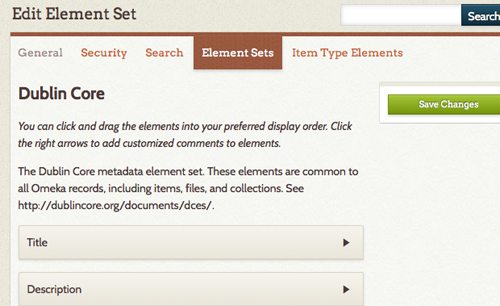
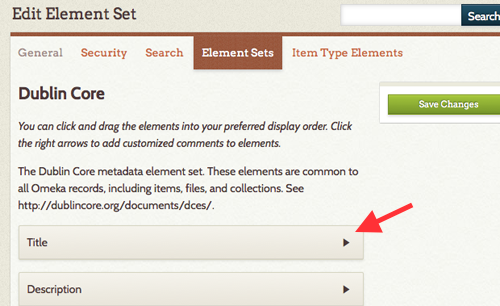
Managing Element Sets
Update language, image files

Changed region(s): [[0.69, 0.6471, 0.84, 0.7647], [0.78, 0.3235, 1.0, 0.3824]]

diff --git a/Managing_Element_Sets_2.md b/Managing_Element_Sets_2.md
@@ -1,42 +1,29 @@
 Managing Element Sets 2.0
 =========================
 
-Element Sets are standardized metadata categories that enable you to
-consistently classify, identify, and sort the digital resources in your
-Omeka database. Element Sets utilize standardized Dublin Core metadata
-fields enabling you to classify the items in your database by content,
-format, and administrative details surrounding stewardship such as
-rights and preservation.
+Element Sets are standardized metadata categories that enable you to consistently classify, identify, and sort the digital resources in your Omeka database. Element Sets utilize standardized Dublin Core metadata fields enabling you to classify the items in your database by content, format, and administrative details surrounding stewardship such as rights and preservation.
 
-[![Elementsetnav.png](https://omeka.org/c/images/8/8a/Elementsetnav.png)](https://omeka.org/codex/File:Elementsetnav.png)
+![Admin top nav with an arrow pointing to Settings and then to Element Sets](/doc_files/Elementsetnav.png)
 
 To manage your Element Sets in Omeka, select Settings in the top
 navigation bar. In the Settings screen, choose Element Sets.
 
+You should see a table with the installed element sets on your Omeka installation. Each row of the table will show the Name and Description for the element set. To edit an element set, click the *edit* button under the element set name. To delete an element set, click the *delete* button (note that you cannot delete the Dublin Core element set).
+
+![First row of table of element sets, showing Dublin Core with edit button but no delete button](/doc_files/elementEdit.png)
+
+
 Annotate Elements
----------------------------------------------------------------------------
+------------------------------------------------------
 
-You may customize descriptions of Dublin Core metadata through adding
-comments to metadata fields and you may arrange the order in which the
-fields appear on your site.
+You may customize descriptions of element set metadata through adding comments to metadata fields and you may arrange the order in which the fields appear on your site.
 
-Under Element Sets, select Edit under Dublin Core.
+![Edit Dublin Core element set](/doc_files/Elementfirstpg.png)
 
-[![Elementfirstpg.png](https://omeka.org/c/images/6/64/Elementfirstpg.png)](https://omeka.org/codex/File:Elementfirstpg.png)
+To add comments to the metadata field descriptions, click on the arrow to the right of the name of the Dublin Core metadata element. Add your comment in the field below. Don't forget to save your changes.
 
-
- To add comments to the metadata field descriptions, click on the arrow
-to the right of the name of the Dublin Core metadata element. Add your
-comment in the field below. Don't forget to save your changes.
-
-
-[![Elementscomment.png](https://omeka.org/c/images/4/49/Elementscomment.png)](https://omeka.org/codex/File:Elementscomment.png)
+![Title element comment being edited, with an arrow to the comment field.](/doc_files/Elementscomment.png)]
 
 Reorder Fields
--------------------------------------------------------------------
-
-To arrange the order in which the Dublin Core metadata fields appear on
-your site, mouse over the name of each element. Your mouse icon will
-become a hand. Click on the name of the element and drag and drop it to
-create an order appropriate for your Omeka database. Don't forget to
-save your changes.
+-------------------------------------------------------------
+To arrange the order in which the Dublin Core metadata fields appear on your site, mouse over the name of each element. Your mouse icon will become a hand. Click on the name of the element and drag and drop it to create an order appropriate for your Omeka database. Don't forget to save your changes.
